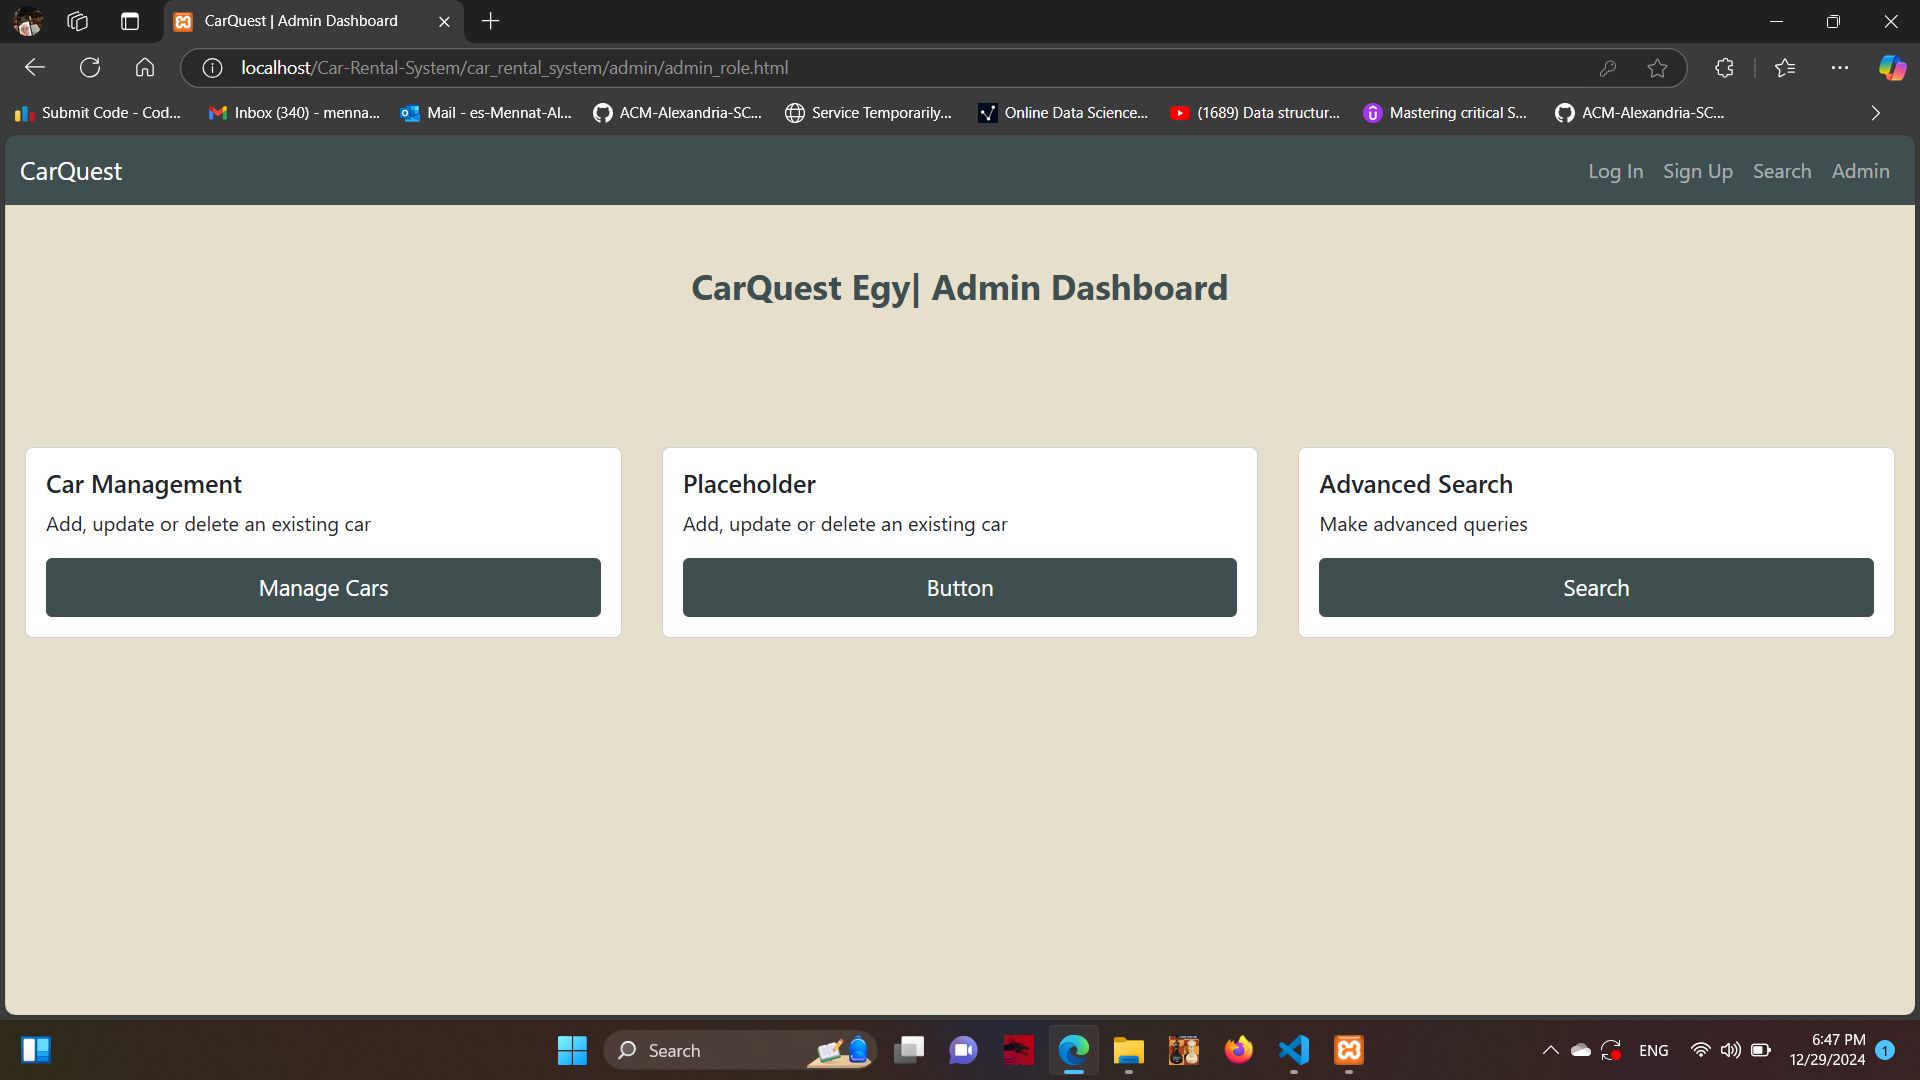
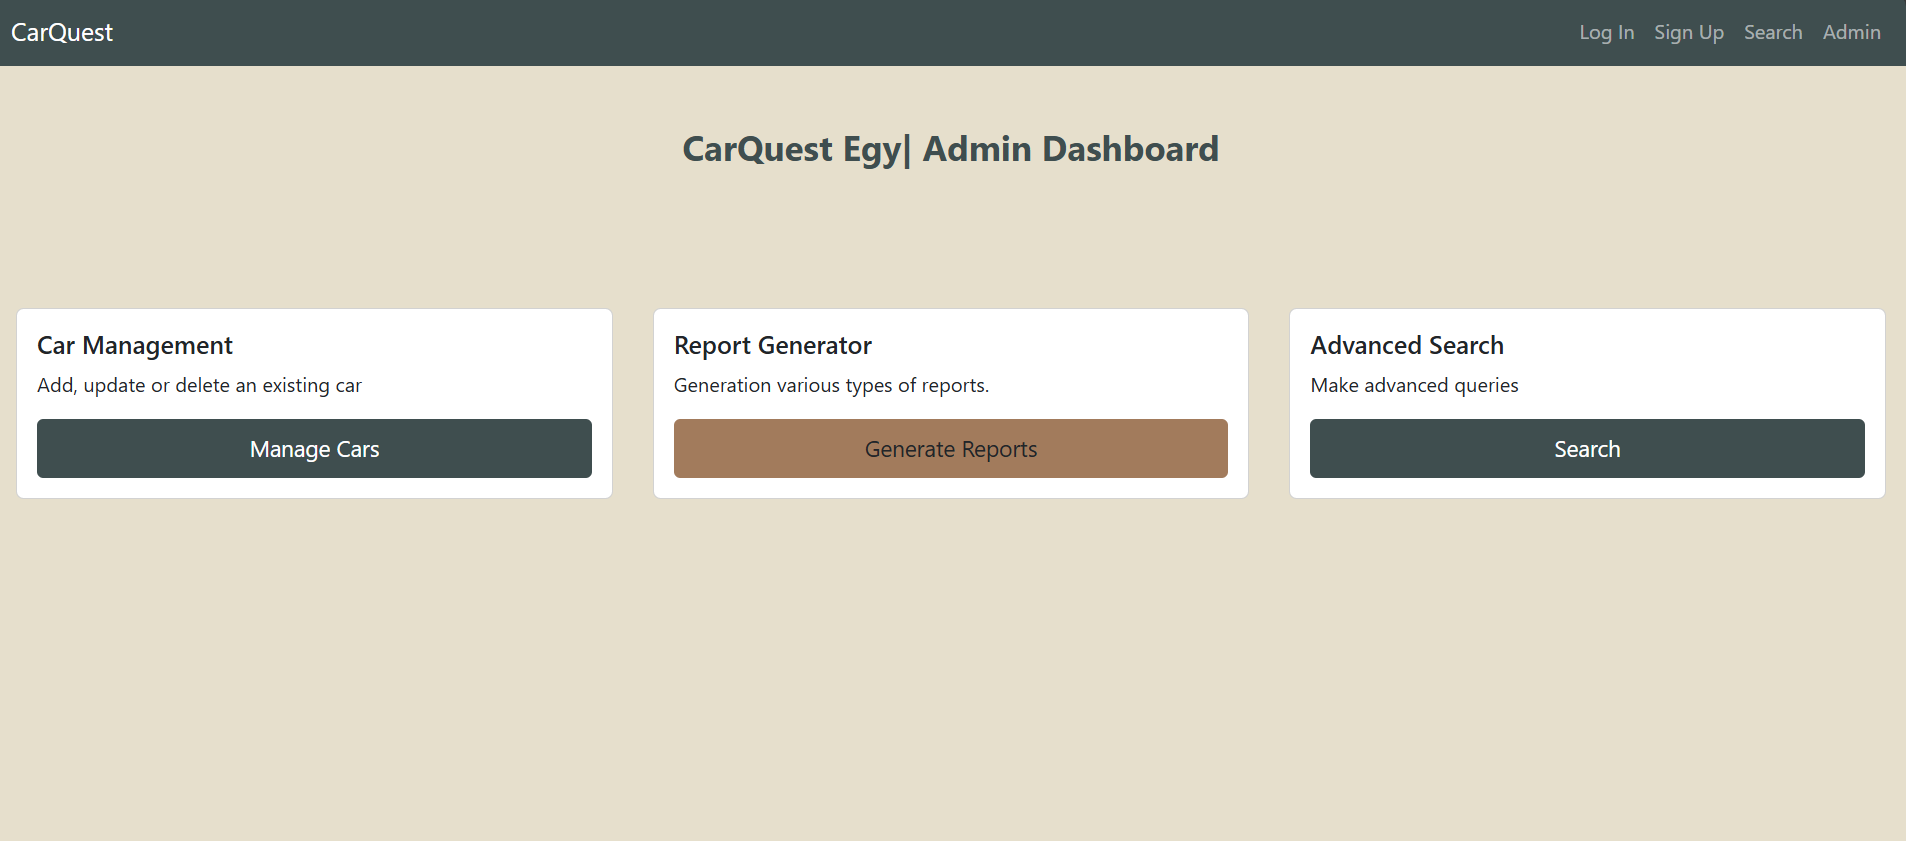
added reports to report

diff --git a/README.md b/README.md
@@ -41,8 +41,8 @@ Home page containing an about section and contact info, and a call-to-action sea
 ![admin](readme-assets/admin-login.png)
 
 ### Admin Dashboard
+![dashboard](readme-assets/dashboard.png)
 
-'''main page to be added'''
 
 1. Car Management: Admins can add, or update cars.
 
@@ -53,8 +53,17 @@ Home page containing an about section and contact info, and a call-to-action sea
 ![adv search](readme-assets/adv-s-2.png)
 
 3. Reports Generation
-''''''
+- 5 types of reports can be generated
+    1. Reservations within a period
+    2. Reservations of a specific car
+    3. Status of all cars on a specific days
+    4. Reservations of a specific customer
+    5. Daily Payments
 
+![reports-types](readme-assets/reports-types.png)
+
+Example
+![reports](readme-assets/reports.png)
 
 
 ### Frontend Design System
